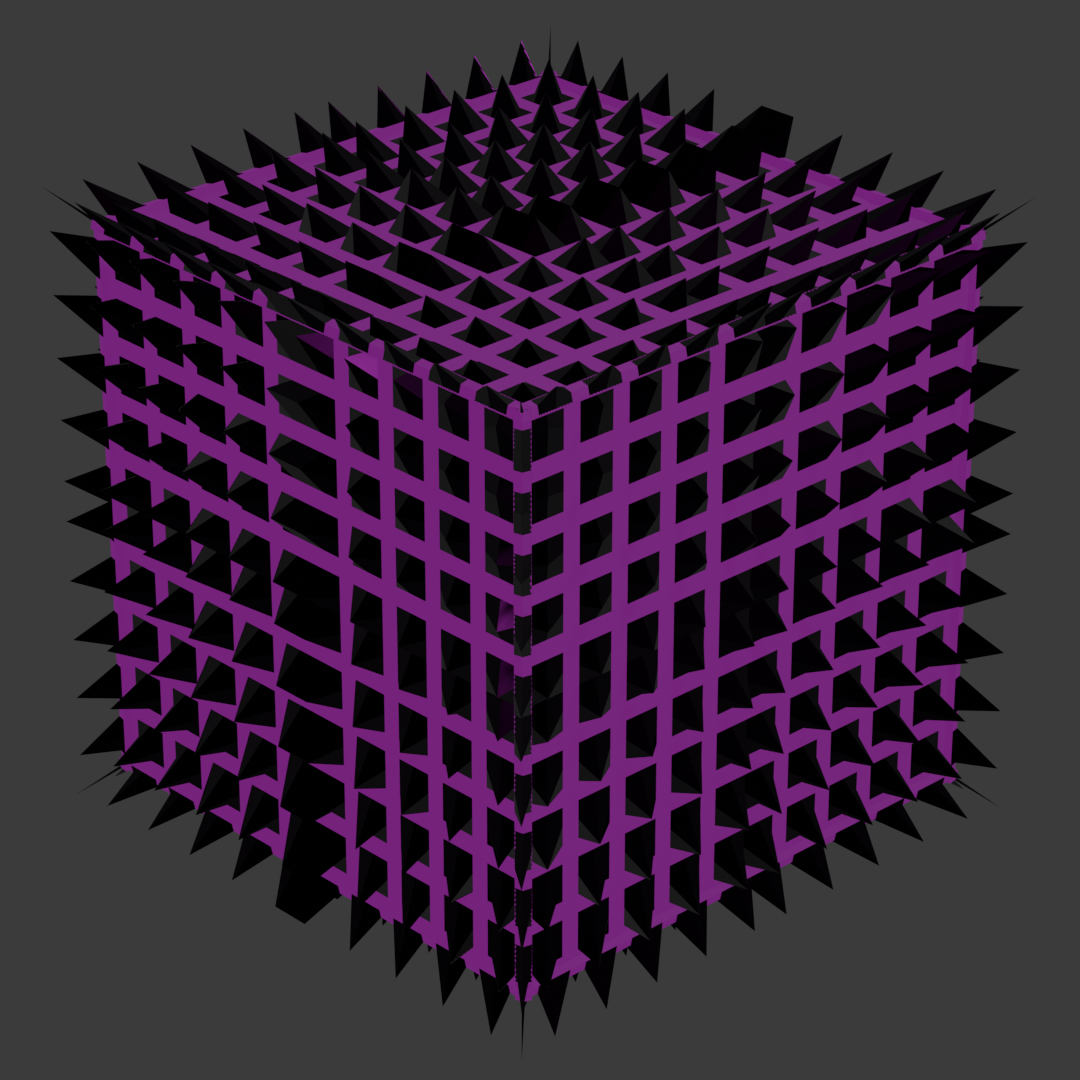
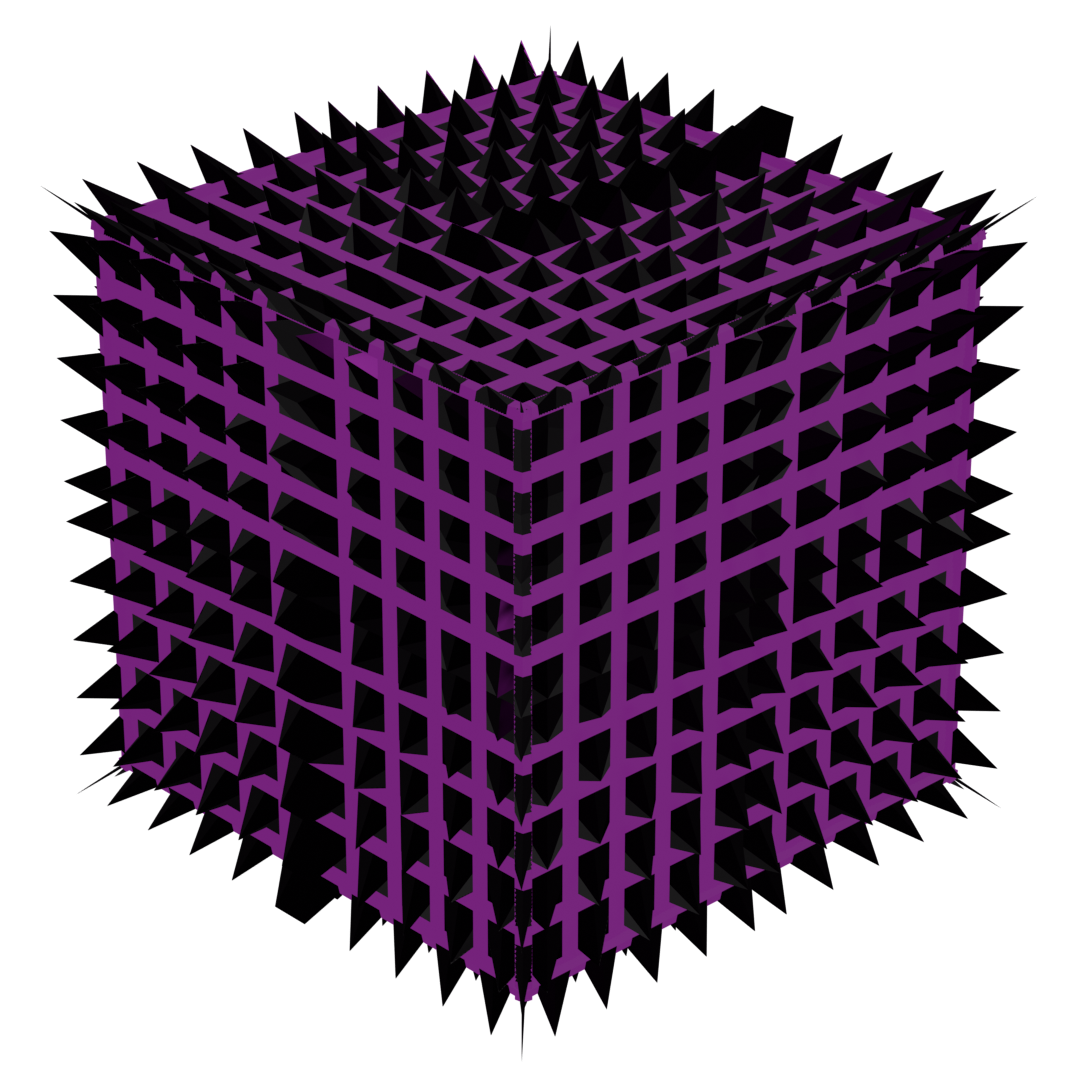
Added new user creation (Incomplete) Began adding backend for user upgrades Updated images to png

diff --git a/Frontend/scripts.js b/Frontend/scripts.js
@@ -1,10 +1,9 @@
-// Searches for the username given in the prompt
-// If found, opens the game page at their ID
-// Otherwise TODO
 function openUser() {
   userInput = prompt("What is your username?");
+
   fetch("http://localhost:5000/users/", { method: "GET" })
     .then((response) => response.json())
+
     .then((content) => {
       let found = false;
       for (let i = 0; i < content.length; i++) {
@@ -13,9 +12,44 @@ function openUser() {
           location.href = `/play/?user=${content[i].id}`;
         }
       }
+
       if (!found) {
-        // TODO
-        console.log("User not found :)");
+        // Acá lo que hacemos es un post
+        console.log("User not found, creating new user... :)");
+
+        const newUser = {
+          name: userInput,
+          total_points: 0,
+          spent_points: 0,
+        };
+
+        fetch("http://localhost:5000/users/", {
+          method: "POST",
+          headers: {
+            "Content-Type": "application/json",
+          },
+          body: JSON.stringify(newUser),
+        })
+          .then(() => {
+            console.log("New user created");
+            fetch("http://localhost:5000/users/", { method: "GET" })
+              .then((response) => response.json())
+              .then((content) => {
+                for (let i = 0; i < content.length; i++) {
+                  if (content[i].name === userInput) {
+                    fetch(
+                      `http://localhost:5000/users/${content[i].id}/ugprades`,
+                      { method: "POST" }
+                    );
+                    location.href = `/play/?user=${content[i].id}`;
+                  }
+                }
+              });
+          })
+          .catch((error) => {
+            console.error("Error creating user:", error);
+            alert("Failed to create user");
+          });
       }
     });
 }
@@ -25,30 +59,47 @@ function returnUser() {
   return new URLSearchParams(window.location.search).get("user");
 }
 
-var currentValues = {
-  pointsTotal: 0,
-  pointsSpent: 0,
-  pointsGain: 0,
-  pointsPassive: 0,
-};
+function fetchUserUpgrades(currentValues) {
+  var currentValues = {
+    pointsTotal: 0,
+    pointsSpent: 0,
+    pointsGain: 5,
+    pointsPassive: 1,
+  };
+  let user_upgrades = [];
+  let all_upgrades = fetchAllUpgrades();
 
-function fetchUpgrades(currentValues) {}
+  let miningAddition = 0;
+  let miningMultiply = 1;
+  let miningExponent = 1;
+  let miningPassive = 0;
 
-// function fetchUpgrades() {
-//   // Fetch from backend
-//   let upgradeArray = [
-//     // This will be replaced by the fetch
-//     { Name: "Steel Pickaxe", Effect: "ADD", Value: 5 },
-//     { Name: "Electric Lantern", Effect: "MULTIPLY", Value: 2 },
-//     { Name: "Gnome Assistants", Effect: "PASSIVE", Value: 1 },
-//     { Name: "Good Meal", Effect: "EXPONENT", Value: 1 },
-//   ];
+  fetch(`http://localhost:5000/users/${returnUser()}/upgrades/`, {
+    method: "GET",
+  })
+    .then((response) => response.json())
+    .then((content) => {
+      user_upgrades = content;
+    });
+  for (let i = 0; i < user_upgrades.length; i++) {
+    if (upgradeArray[i].effect === "ADD") {
+    } else if (upgradeArray[i].effect === "MULTIPLY") {
+    } else if (upgradeArray[i].effect === "EXPONENT") {
+    } else if (upradeArray[i].effect === "PASSIVE") {
+    } else {
+      alert("Upgrade effect is not valid.");
+    }
+  }
+}
 
-//   miningValue = 0;
-//   miningPassive = 0;
-//   var miningAddition = 0;
-//   var miningMultiply = 1;
-//   var miningExponent = 1;
+function fetchAllUpgrades() {
+  fetch(`http://localhost:5000/upgrades/`, { method: "GET" })
+    .then((response) => response.json())
+    .then((content) => {
+      console.log(`All upgrades fetched.`);
+      return content;
+    });
+}
 
 //   for (let i = 0; i < upgradeArray.length; i++) {
 //     if (upgradeArray[i].Effect === "ADD") {
@@ -79,10 +130,13 @@ function pointsUpdate(currentValues) {
 }
 
 function calculatePoints(currentValues) {
-  fetchUpgrades(currentValues);
+  fetchUserUpgrades(currentValues);
   var timeSinceLastClick = 60; // Time in seconds since the last click
-  currentPoints += miningValue + miningPassive * timeSinceLastClick;
-  console.log(`Current points: ${currentPoints}`);
+  currentValues.pointsTotal +=
+    currentValues.pointsGain + currentValues.pointsPassive * timeSinceLastClick;
+  console.log(
+    `Current points: ${currentValues.pointsTotal - currentValues.pointDisplay}`
+  );
   pointsUpdate(currentValues);
 }
 
@@ -96,7 +150,7 @@ function updateUpgrades() {
   const shopList = document.getElementById("upgradeShop");
   inventoryList.innerHTML = "";
   shopList.innerHTML = "";
-  let userUpgrades = fetchUpgrades();
+  let userUpgrades = fetchUserUpgrades();
   // Do a fetch of all possible upgrades (From upgrades table)
   let exampleUpgradeList = [
     { Name: "Steel Pickaxe", Effect: "ADD", Value: 5 },

diff --git a/Frontend/index.html b/Frontend/index.html
@@ -6,8 +6,8 @@
   </head>
 
   <body>
-    <h1><bold>Qubit Quarry</bold></h1>
-    <h5>
+    <h1 style="text-align: center; font-weight: bold">Qubit Quarry</h1>
+    <h5 style="text-align: justify">
       Lore: Lorem ipsum dolor sit amet, consectetur adipiscing elit. Fusce
       efficitur augue dolor, eu vestibulum arcu egestas lacinia. Donec sed
       libero convallis, molestie arcu id, malesuada orci. Vestibulum id
@@ -18,7 +18,22 @@
       dui consectetur faucibus. Nullam pharetra, massa nec posuere faucibus, est
       risus egestas mi, in congue diam lorem ut nulla.
     </h5>
-    <button onclick="openUser()">Play!</button>
+    <button
+      onclick="openUser()"
+      style="
+        text-align: center;
+        font-size: 25px;
+        display: flex;
+        position: absolute;
+        margin-left: 50%;
+        padding-left: 20px;
+        padding-right: 20px;
+        padding-top: 5px;
+        padding-bottom: 5px;
+      "
+    >
+      Play!
+    </button>
 
     <script src="scripts.js"></script>
   </body>

diff --git a/Frontend/play/index.html b/Frontend/play/index.html
@@ -12,7 +12,7 @@
         <ul style="list-style-type: none" id="upgradeShop"></ul>
       </shop>
       <div style="float: left; width: 40%">
-        <button onclick="calculatePoints()">
+        <button onclick="calculatePoints(currentValues)">
           <img
             id="cubeImage"
             src="/Data/Images/cubeStageOne.png"
@@ -37,16 +37,17 @@
         ></ul>
       </inventory>
     </div>
-    <script src="../scripts.js">
-
-      pointsUpdate();
-
+    <script src="../scripts.js"></script>
+    <script>
       var currentValues = {
         pointsTotal: 0,
         pointsSpent: 0,
-        pointsGain: 0,
-        pointsPassive: 0,
+        pointsGain: 5,
+        pointsPassive: 1,
       };
+
+      pointsUpdate(currentValues);
+      fetchAllUpgrades();
     </script>
   </body>
 </html>

diff --git a/Backend/app.py b/Backend/app.py
@@ -50,10 +50,10 @@ def all_users():
             # Se definen valores predeterminados si no se proporcionan
             total_points = data.get('total_points', 0)
             spent_points = data.get('spent_points', 0)
-            nuevo_user = User(name=nuevo_nombre, total_points=total_points, spent_points=spent_points) #removido el last_click hasta resolver lo del horario
-            db.session.add(nuevo_user)
+            new_upgradesr = User(name=nuevo_nombre, total_points=total_points, spent_points=spent_points) #removido el last_click hasta resolver lo del horario
+            db.session.add(new_upgradesr)
             db.session.commit()
-            return jsonify({'user': {'id': nuevo_user.id, 'name': nuevo_user.name, 'total_points': nuevo_user.total_points, 'spent_points': nuevo_user.spent_points, 'last_click': nuevo_user.last_click}}), 201
+            return jsonify({'user': {'id': new_upgradesr.id, 'name': new_upgradesr.name, 'total_points': new_upgradesr.total_points, 'spent_points': new_upgradesr.spent_points, 'last_click': new_upgradesr.last_click}}), 201
         except Exception as error:
             print(error)
             return jsonify({"message": "Couldn't create user."}), 500 # Esto no deberia pasar nunca
@@ -61,7 +61,7 @@ def all_users():
     else:
         return jsonify({"message": "Method not allowed."}), 405
         
-@app.route("/users/<user_id>", methods=["GET", "PUT", "DELETE"])
+@app.route("/users/<user_id>/", methods=["GET", "PUT", "DELETE"])
 def user_by_id(user_id):
 
     if request.method == "PUT":
@@ -131,7 +131,7 @@ def user_by_id(user_id):
         return jsonify({"message": "Method not allowed."}), 405
 
 
-@app.route("/users/<user_id>/upgrades",methods=["GET", "POST", "PUT"])
+@app.route("/users/<user_id>/upgrades/",methods=["GET", "POST", "PUT"])
 def get_upgrades_by_id(user_id):
 
     if request.method=='GET':
@@ -139,7 +139,14 @@ def get_upgrades_by_id(user_id):
             upgrades = UserUpgrade.query.get(user_id)
             if upgrades:
                 user_upgrades = {
-                    "example": upgrades.exampleUpgrade
+                    "user_id": upgrades.user_id,
+                    "pickaxe": upgrades.pickaxe,
+                    "lantern": upgrades.lantern,
+                    "assistant": upgrades.assistant,
+                    "meals": upgrades.meals,
+                    "housing": upgrades.housing,
+                    "helmet": upgrades.helmet,
+                    "cartographer": upgrades.cartographer,
                 }
                 return jsonify(user_upgrades)
             else:
@@ -147,14 +154,60 @@ def get_upgrades_by_id(user_id):
         except Exception as error:
             print(error)
             return jsonify({"message": f"Error when searching for user {user_id}."}), 500
-        
-    # this is quite literally the same as the POST and PUT for users, but this time for upgrades
-    # elif request.method=='POST':
-    # elif request.method=='PUT':
+
+    elif request.method=='POST':
+        try:
+            data = request.json
+            nuevo_nombre = data.get('name')         
+            # Se definen valores predeterminados si no se proporcionan
+            pickaxe = data.get('pickaxe', 0)
+            lantern = data.get('lantern', 0)
+            assistant = data.get('assistant', 0)
+            meals = data.get('meals', 0)
+            housing = data.get('housing', 0)
+            helmet = data.get('helmet', 0)
+            cartographer = data.get('cartographer', 0)
+            new_upgrades = UserUpgrade(name=nuevo_nombre, total_points=total_points, spent_points=spent_points)
+            db.session.add(new_upgrades)
+            db.session.commit()
+            return jsonify({'user': {'id': new_upgrades.id, 'name': new_upgrades.name, 'total_points': new_upgrades.total_points}}), 201
+        except Exception as error:
+            print(error)
+            return jsonify({"message": "Couldn't create user."}), 500 # Esto no deberia pasar nunca
     else:
         return jsonify({"message": "Method not allowed."}), 405
+    # elif request.method=='PUT':
 
-        
+@app.route("/upgrades/", methods=["GET"])
+def get_all_upgrades():
+
+    if request.method == "GET":
+        try:
+            upgrades = Upgrade.query.all()
+            upgrades_data = []
+            for upgrade in upgrades:
+                upgrade_data = {
+                    'id': upgrade.id,
+                    'internal_name': upgrade.internal_name,
+                    'effect': upgrade.effect,
+                    'value_tier_1': upgrade.value_tier_1,
+                    'name_tier_1': upgrade.name_tier_1,
+                    'value_tier_2': upgrade.value_tier_2,
+                    'name_tier_2': upgrade.name_tier_2,
+                    'value_tier_3': upgrade.value_tier_3,
+                    'name_tier_3': upgrade.name_tier_3,
+                    'value_tier_4': upgrade.value_tier_4,
+                    'name_tier_4': upgrade.name_tier_4,
+                    'value_tier_5': upgrade.value_tier_5,
+                    'name_tier_5': upgrade.name_tier_5
+                }
+                upgrades_data.append(upgrade_data)
+            return jsonify(upgrades_data)
+        except Exception as error:
+            print(error) #En caso de haber error lo imprimo
+            return jsonify({"Message": "No upgrades found."}) # Acá queda a deber que tipo de error queremos proporcionarle
+
+
 if __name__ == '__main__':
     print('Starting server...')
     db.init_app(app)

diff --git a/Backend/models.py b/Backend/models.py
@@ -19,6 +19,12 @@ class UserUpgrade(db.Model):
     # Añadir una columna INT para el tier de cada mejora
     # EL NOMBRE DE LA COLUMNA DEBE SER EXACTAMENTE IGUAL A INTERNAL_NAME EN UPGRADE
     pickaxe = db.Column(db.Integer, nullable=False, default=0)
+    lantern = db.Column(db.Integer, nullable=False, default=0)
+    assistant = db.Column(db.Integer, nullable = False, default = 0)
+    meals = db.Column(db.Integer, nullable = False, default = 0)
+    housing = db.Column(db.Integer, nullable = False, default = 0)
+    helmet = db.Column(db.Integer, nullable = False, default = 0)
+    cartographer = db.Column(db.Integer, nullable = False, default = 0)
 
 class Upgrade(db.Model):
     __tablename__ = 'upgrades'
@@ -31,17 +37,17 @@ class Upgrade(db.Model):
     # Nulo significa que no tiene se tier
 
     # Tier 1
-    value_tier_1 = db.Column(db.Integer, nullable=False) 
+    value_tier_1 = db.Column(db.Float, nullable=False) 
     name_tier_1 = db.Column(db.String(255), nullable=False)
     # Tier 2
-    value_tier_2 = db.Column(db.Integer, nullable=True)
+    value_tier_2 = db.Column(db.Float, nullable=True)
     name_tier_2 = db.Column(db.String(255), nullable=True)
     # Tier 3
-    value_tier_3 = db.Column(db.Integer, nullable=True)
+    value_tier_3 = db.Column(db.Float, nullable=True)
     name_tier_3 = db.Column(db.String(255), nullable=True)
     # Tier 4
-    value_tier_4 = db.Column(db.Integer, nullable=True)
+    value_tier_4 = db.Column(db.Float, nullable=True)
     name_tier_4 = db.Column(db.String(255), nullable=True)
     # Tier 5
-    value_tier_5 = db.Column(db.Integer, nullable=True)
+    value_tier_5 = db.Column(db.Float, nullable=True)
     name_tier_5 = db.Column(db.String(255), nullable=True)
